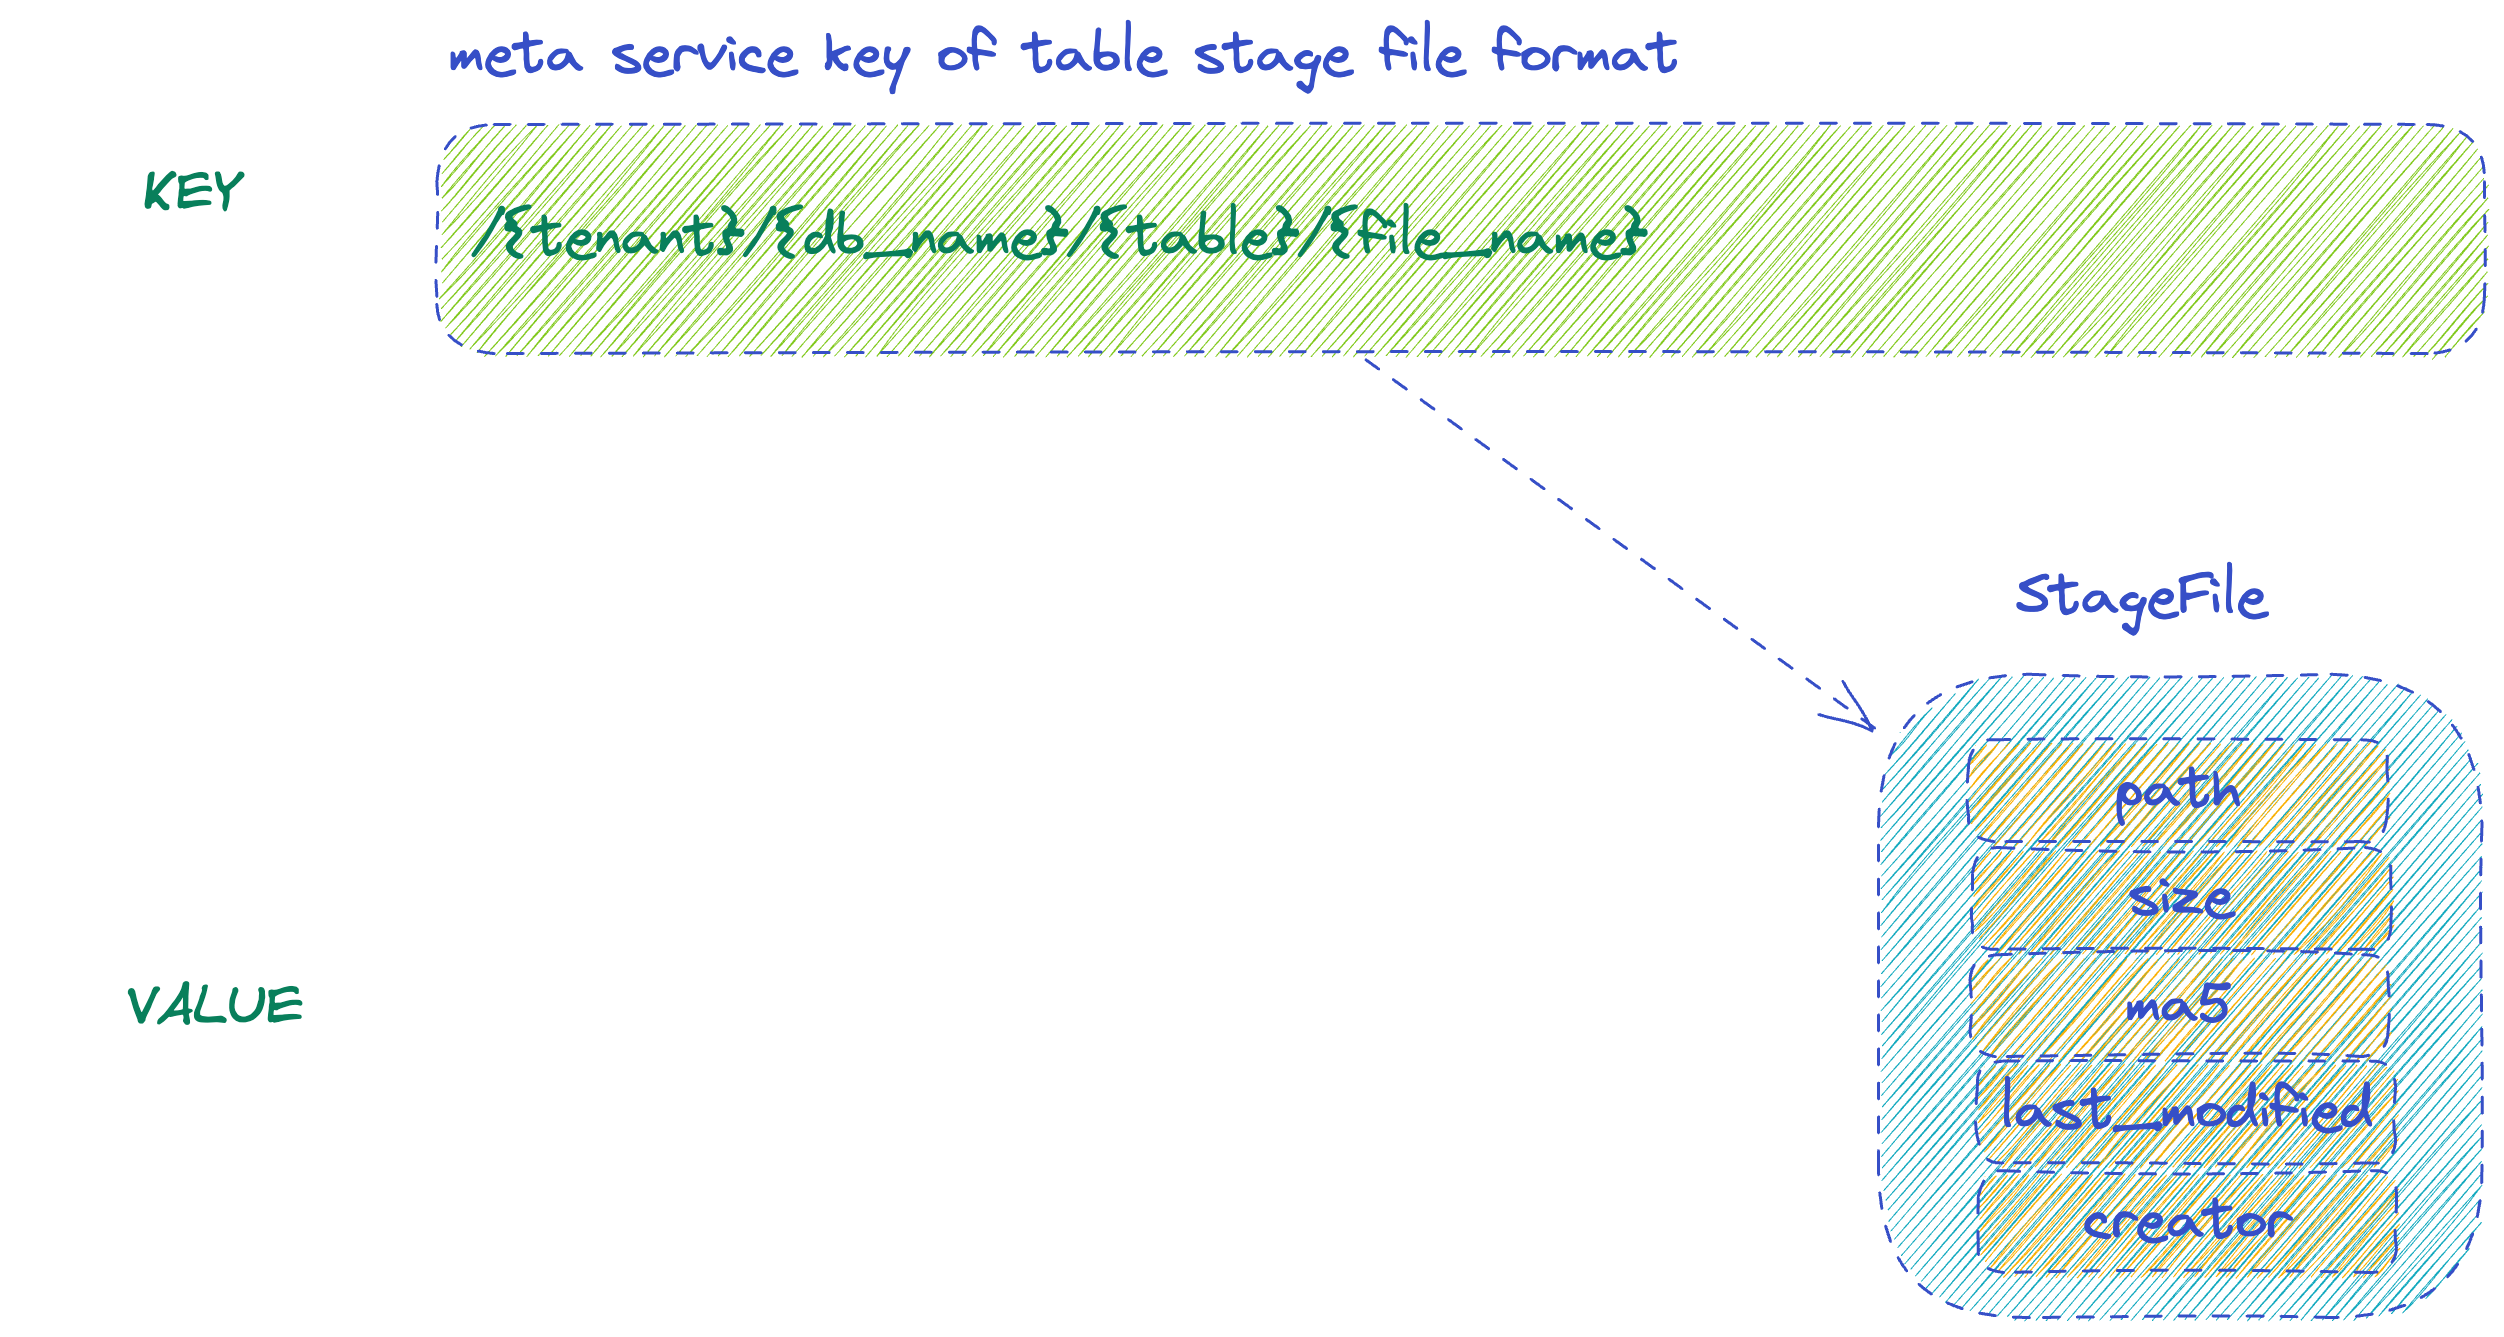
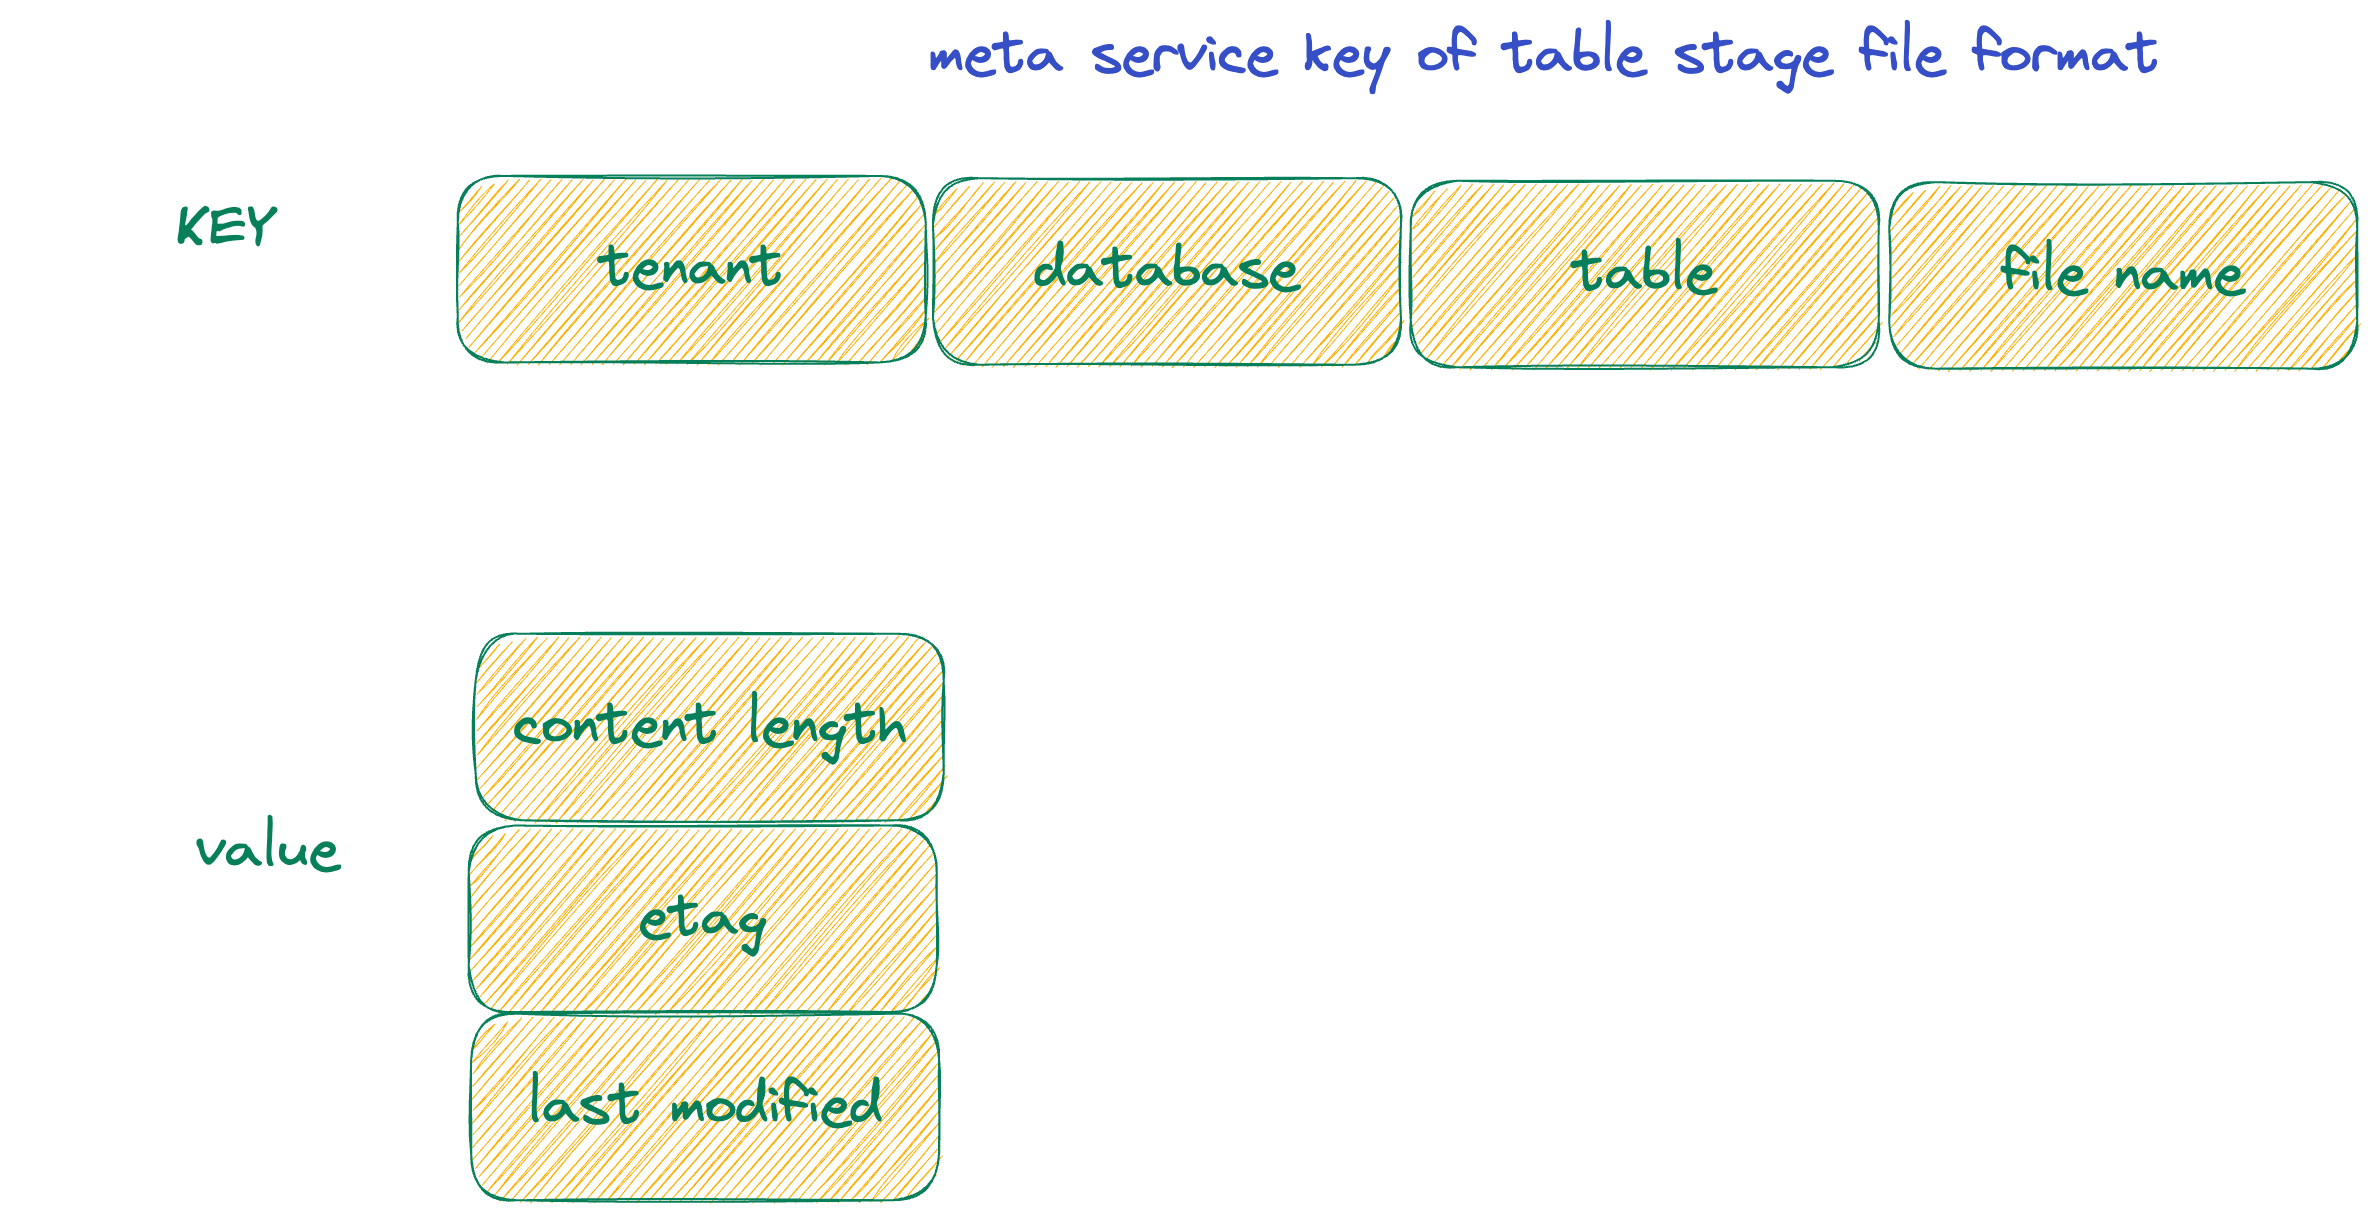
and refactor the doc by comment

diff --git a/docs/doc/60-contributing/03-rfcs/20220909-Idempotent-Copy.md b/docs/doc/60-contributing/03-rfcs/20220909-Idempotent-Copy.md
@@ -14,18 +14,9 @@ When streaming copy stage files into a table, there is a chance that some files 
 Whenever copy stage files into a table, save the stage file meta information into the meta service:
 
 - key: combined with `(tenant, database, table, file name)`.
-- value: The stage file meta information has been defined in `StageFile` before, its definition is:
+- value: value MUST includes all the meta of a stage file, such as `content-length`,`etag`,`last modified`.
 
-```Rust
-#[derive(Default, Clone)]
-pub struct StageFile {
-    pub path: String,
-    pub size: u64,
-    pub md5: Option<String>,
-    pub last_modified: DateTime<Utc>,
-    pub creator: Option<UserIdentity>,
-}
-```
+
 
 ![](/img/rfc/20220909-Idempotent-Copy/stage-file-meta.png)
 
